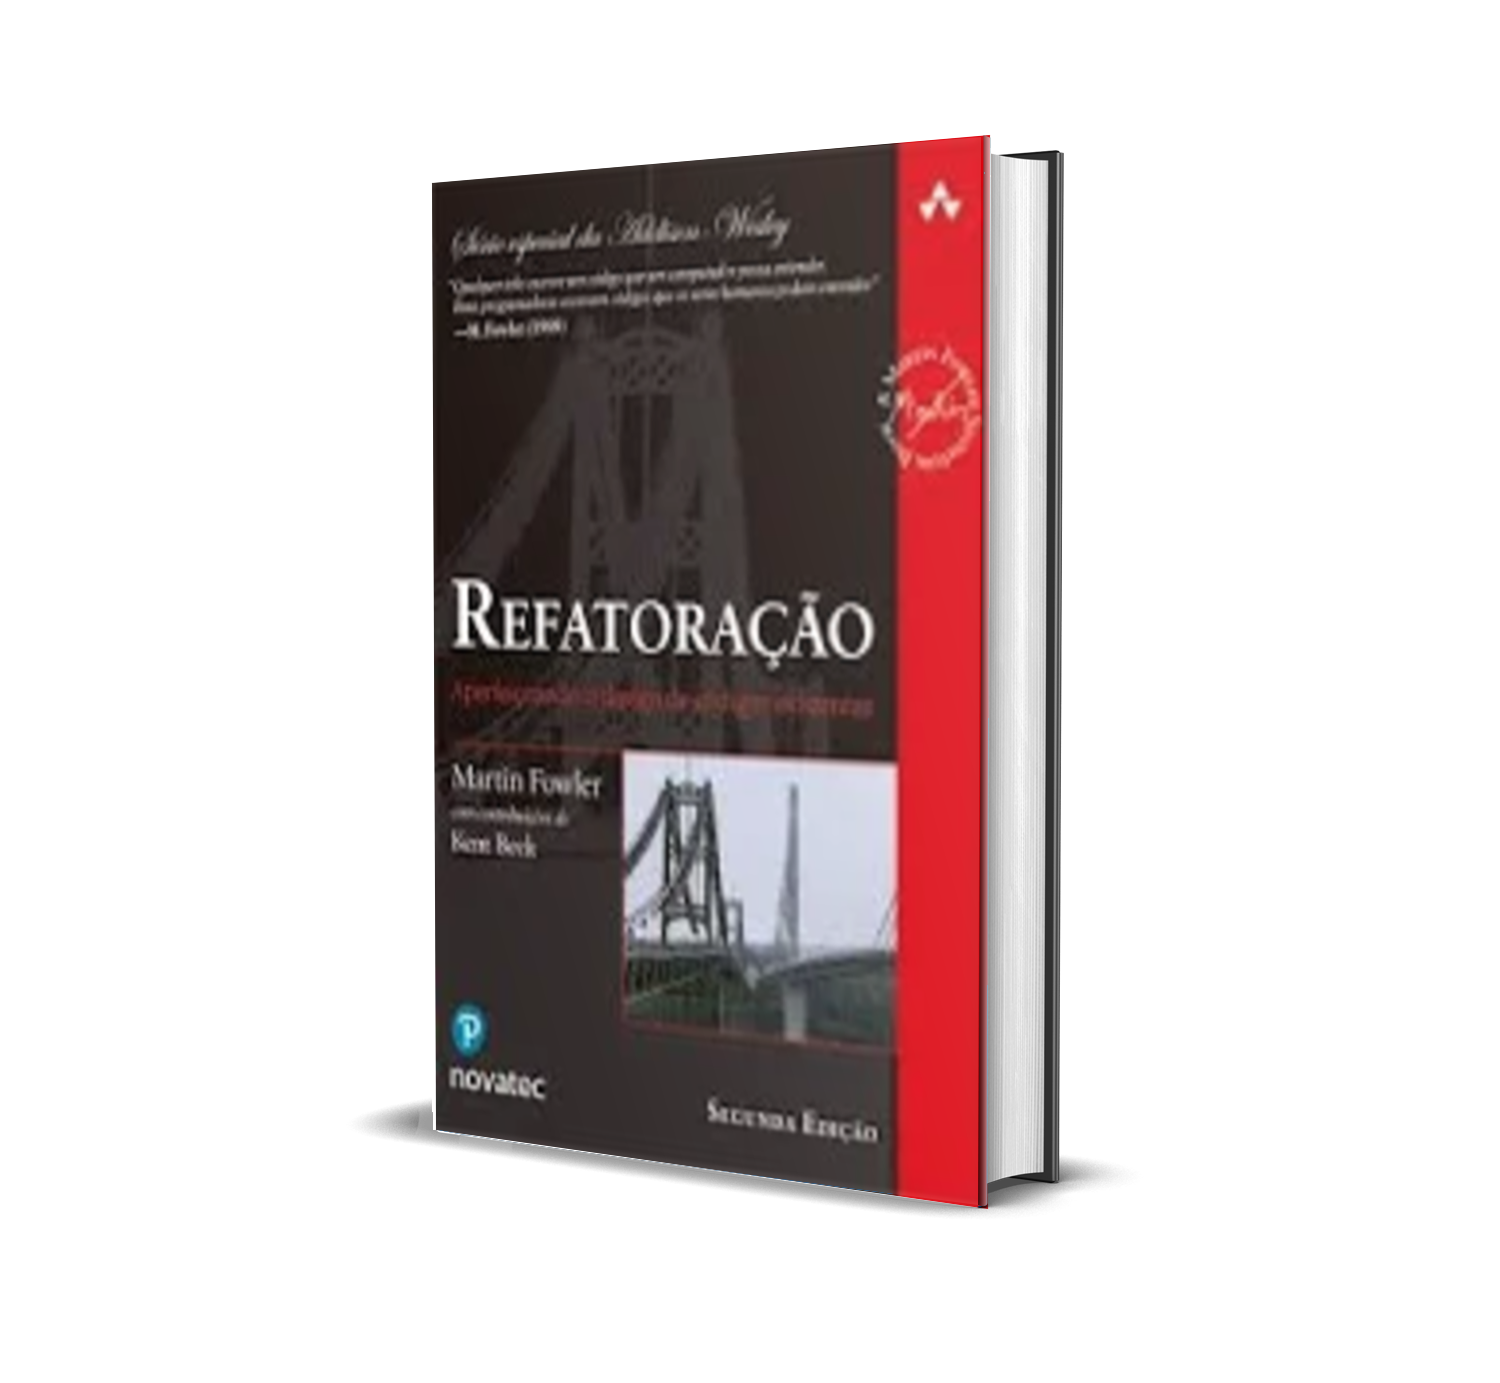
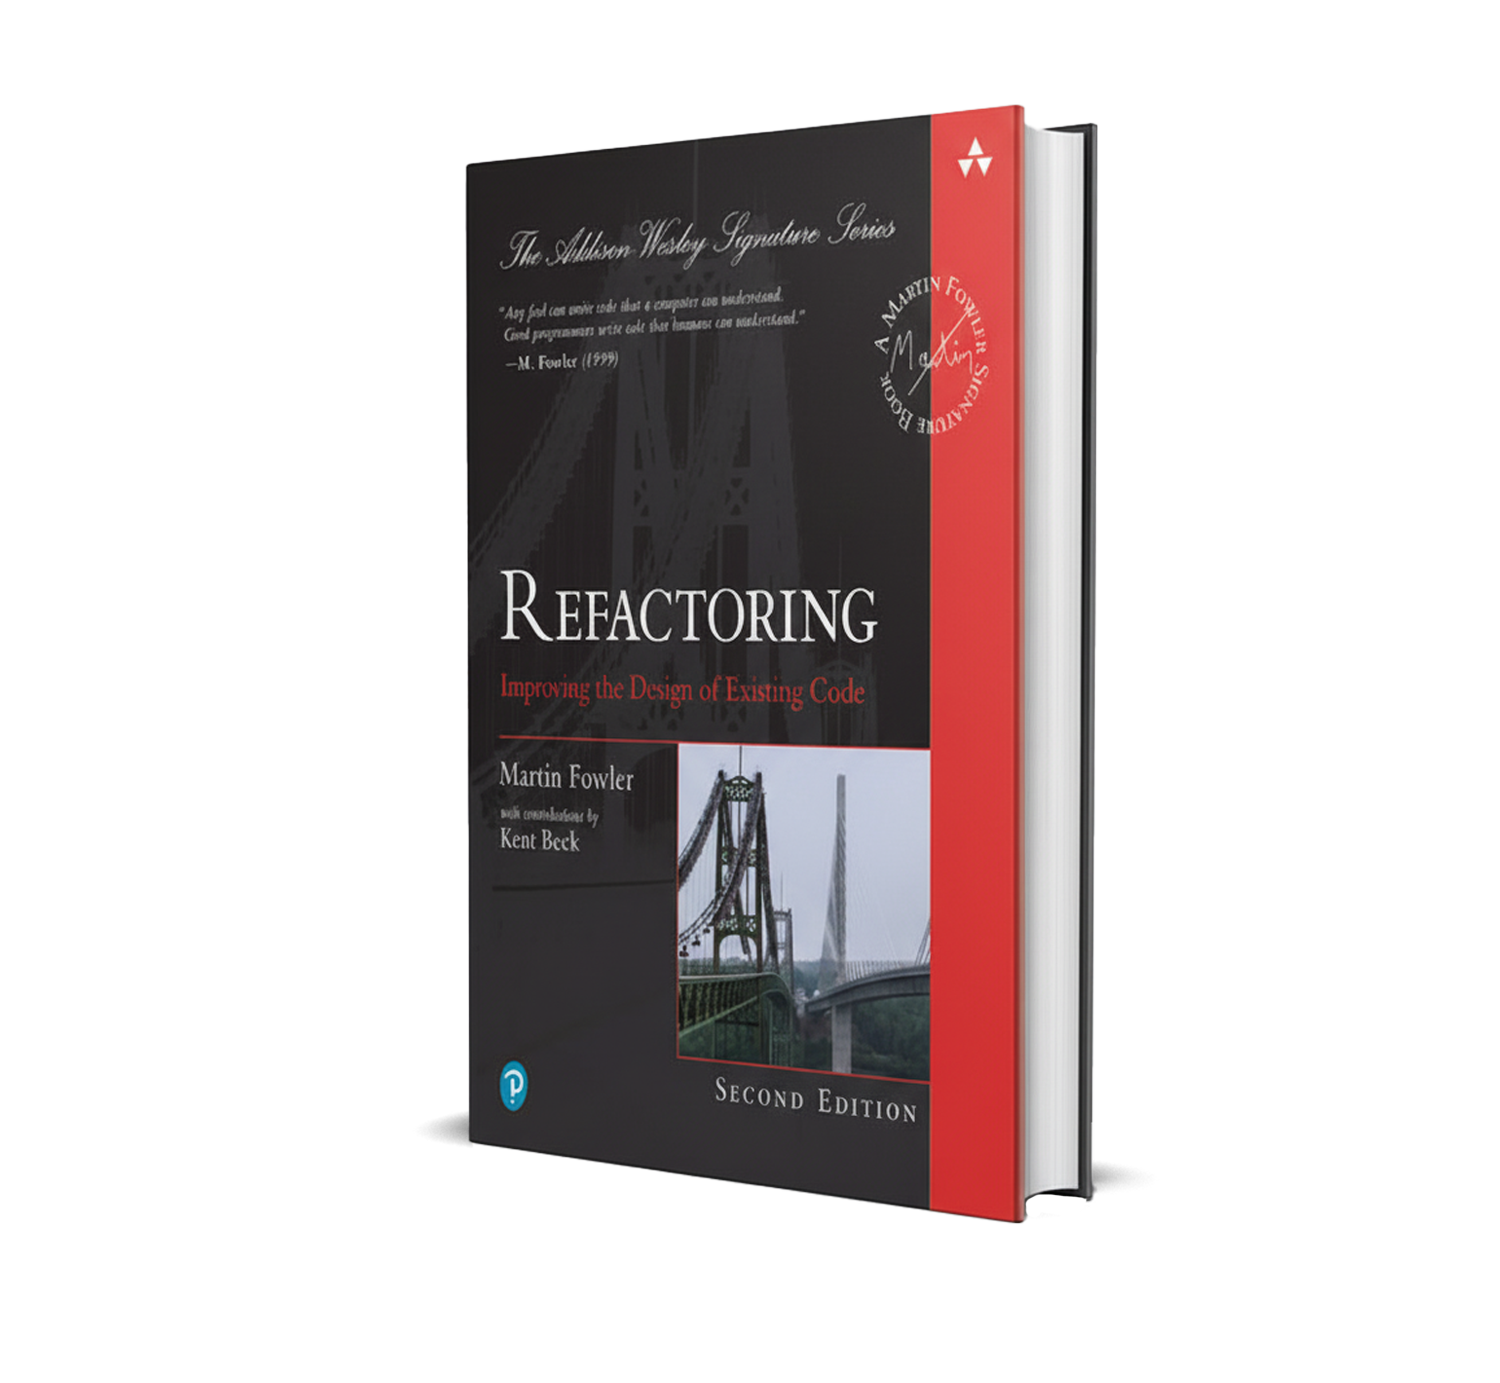
fix: translation adjustments

Changed region(s): [[0.2453, 0.0622, 0.736, 0.9017]]

diff --git a/services/frontend/index.html b/services/frontend/index.html
@@ -4,7 +4,7 @@
         <meta charset="utf-8" />
         <meta http-equiv="X-UA-Compatible" content="IE=edge" />
         <meta name="viewport" content="width=device-width, initial-scale=1" />
-        <title>Micro Livraria</title>
+        <title>Micro Bookstore</title>
         <link href="https://fonts.googleapis.com/css?family=Open+Sans" rel="stylesheet" />
         <link rel="stylesheet" href="https://unpkg.com/bulma@0.9.0/css/bulma.min.css" />
         <link rel="stylesheet" type="text/css" href="index.css" />